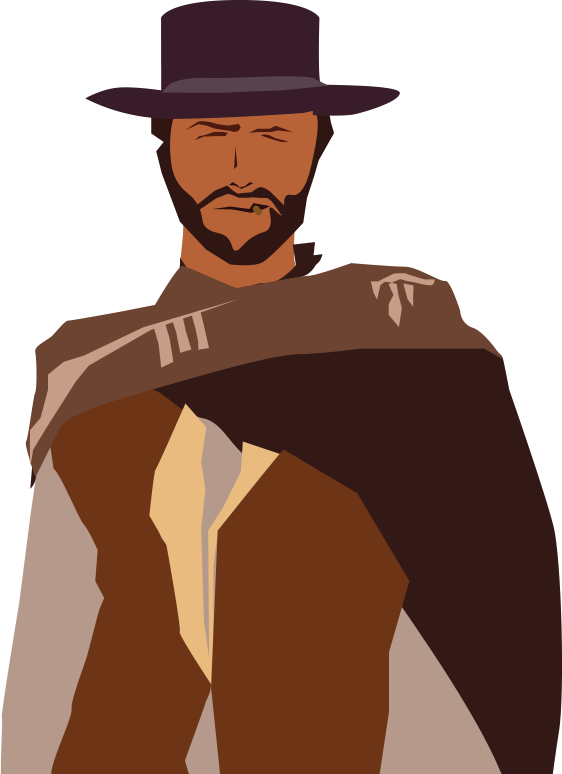
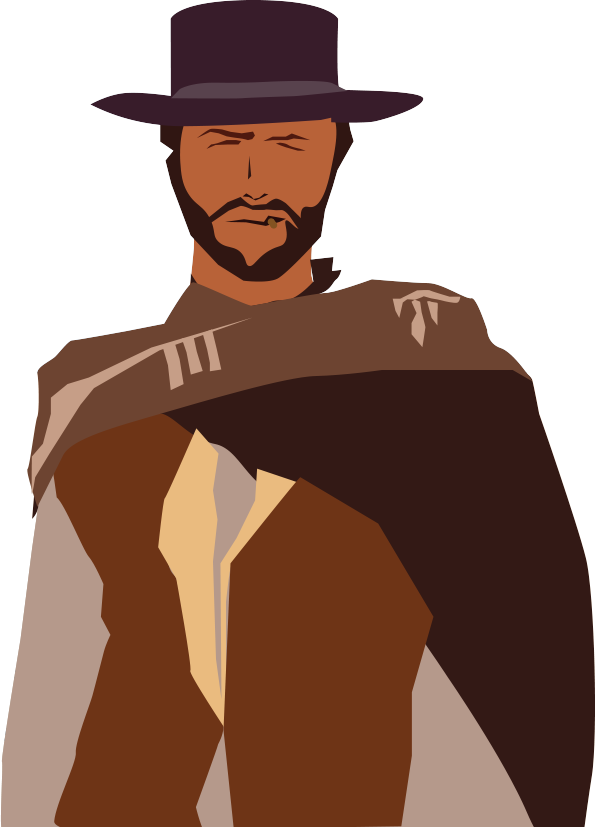
First attempt to animate clint

diff --git a/quickdraw.py b/quickdraw.py
@@ -45,7 +45,7 @@ SPI_PORT = 0
 SPI_DEVICE = 0
 
 backgrounds = []
-foregrounds = [None, Drawable("background_wait", "clint.png", 0,0, True ), None, None, None, None, None]
+foregrounds = [None, Drawable("background_wait", "clint.png", 0,150, True ), None, None, None, None, None]
 
 mcp = Adafruit_MCP3008.MCP3008(spi=SPI.SpiDev(SPI_PORT, SPI_DEVICE))
  
@@ -228,6 +228,10 @@ def main():
 				pause_music()
 				round_start_effect.play()
 				game_state = 1
+
+				#reset clint for his slow travel
+				foregrounds[1].pos_x = 10
+
 				round_time = random.randint(round_min, round_max)
 				round_start_time = time.time()
 			elif game_state in [3,4,5,6]:
@@ -248,6 +252,10 @@ def main():
 					#pygame.mixer.music.fadeout(music_fadeout_time)
 					round_start_effect.play()					
 					game_state = 1
+					
+					#reset clint for his slow travel
+					foregrounds[1].pos_x = 10
+
 					round_time = random.randint(2,6)
 					round_start_time = time.time()
 				elif event.key == K_SPACE and game_state in [3,4,5,6]:
@@ -268,6 +276,9 @@ def main():
 		elif game_state is 1:
 			render_round_start()
 			cur_elapsed = time.time() - round_start_time
+
+			#move clint across the screen slowly
+			foregrounds[1].pos_x += cur_elapsed
 			if gun_picked_up(cur_input) != -1:
 				penalty["player"] = gun_picked_up(cur_input)
 				if "count" in penalty:
